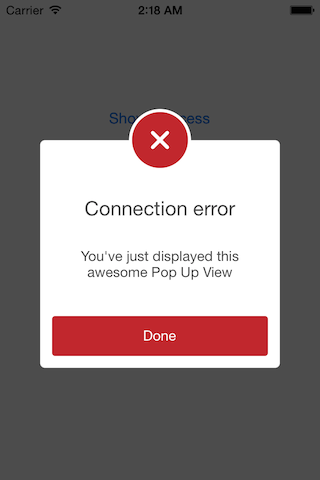
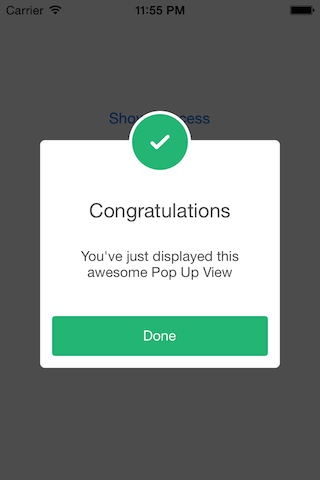
Added Circle View Background for Circle.
Updated screenshots.

diff --git a/Classes/SCLAlertView.swift b/Classes/SCLAlertView.swift
@@ -34,6 +34,8 @@ class SCLAlertViewClose {
 class SCLAlertView : UIView {
     let kDefaultShadowOpacity: CGFloat = 0.7;
     let kCircleHeight: CGFloat = 56.0;
+    let kCircleTopPosition: CGFloat = -12; // Should not be defined here. Make it dynamic
+    let kCircleBackgroundTopPosition: CGFloat = -15; // Should not be defined here. Make it dynamic
     let kCircleHeightBackground: CGFloat = 62.0;
     let kCircleIconHeight: CGFloat = 20.0;
     let kWindowWidth: CGFloat = 240.0;
@@ -48,6 +50,7 @@ class SCLAlertView : UIView {
     var shadowView: UIView
     var contentView: UIView
     var circleView: UIView
+    var circleViewBackground: UIView
     var circleIconImageView: UIImageView
     var doneButton: UIButton
     var rootViewController: UIViewController
@@ -62,8 +65,14 @@ class SCLAlertView : UIView {
         self.contentView.layer.borderWidth = 0.5;
         
         // Circle View
-        self.circleView = UIView(frame: CGRectMake(kWindowWidth / 2 - kCircleHeight / 2, 2, kCircleHeight, kCircleHeight))
+        self.circleView = UIView(frame: CGRectMake(kWindowWidth / 2 - kCircleHeight / 2, kCircleTopPosition, kCircleHeight, kCircleHeight))
         self.circleView.layer.cornerRadius =  self.circleView.frame.size.height / 2;
+        
+        // Circle View Background
+        
+        self.circleViewBackground = UIView(frame: CGRectMake(kWindowWidth / 2 - kCircleHeightBackground / 2, kCircleBackgroundTopPosition, kCircleHeightBackground, kCircleHeightBackground))
+        self.circleViewBackground.layer.cornerRadius =  self.circleViewBackground.frame.size.height / 2;
+        self.circleViewBackground.backgroundColor = UIColor.whiteColor()
         
         // Circle View Image
         self.circleIconImageView = UIImageView(frame: CGRectMake(kCircleHeight / 2 - kCircleIconHeight / 2, kCircleHeight / 2 - kCircleIconHeight / 2, kCircleIconHeight, kCircleIconHeight))
@@ -103,6 +112,7 @@ class SCLAlertView : UIView {
         
         // Show notice on screen
         self.addSubview(self.contentView)
+        self.addSubview(self.circleViewBackground)
         self.addSubview(self.circleView)
         
         // Colours
@@ -205,7 +215,7 @@ class SCLAlertView : UIView {
         // Adding duration
         if (duration != nil && duration > 0) {
             durationTimer?.invalidate()
-            durationTimer = NSTimer.scheduledTimerWithTimeInterval(duration, target: self, selector: Selector("hideView"), userInfo: nil, repeats: false)
+            durationTimer = NSTimer.scheduledTimerWithTimeInterval(duration!, target: self, selector: Selector("hideView"), userInfo: nil, repeats: false)
         }
         
         // Animate in the alert view

diff --git a/README.md b/README.md
@@ -3,8 +3,9 @@ SCLAlertView
 
 Animated Alert View. Written in Swift
 
-![BackgroundImage](https://raw.githubusercontent.com/vikmeup/SCPopUpView/master/errorScreenshot.png)_ 
-![BackgroundImage](https://raw.githubusercontent.com/vikmeup/SCPopUpView/master/successScreenshot.png)
+![BackgroundImage](https://raw.githubusercontent.com/vikmeup/SCPopUpView/master/successScreenshot.png)_
+![BackgroundImage](https://raw.githubusercontent.com/vikmeup/SCPopUpView/master/errorScreenshot.png) 
+
 
 
 ###Easy to use
